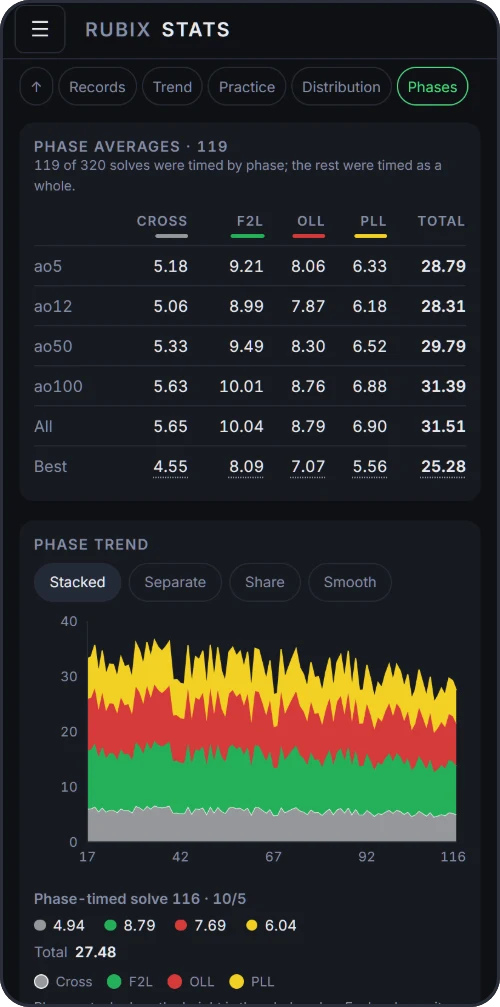
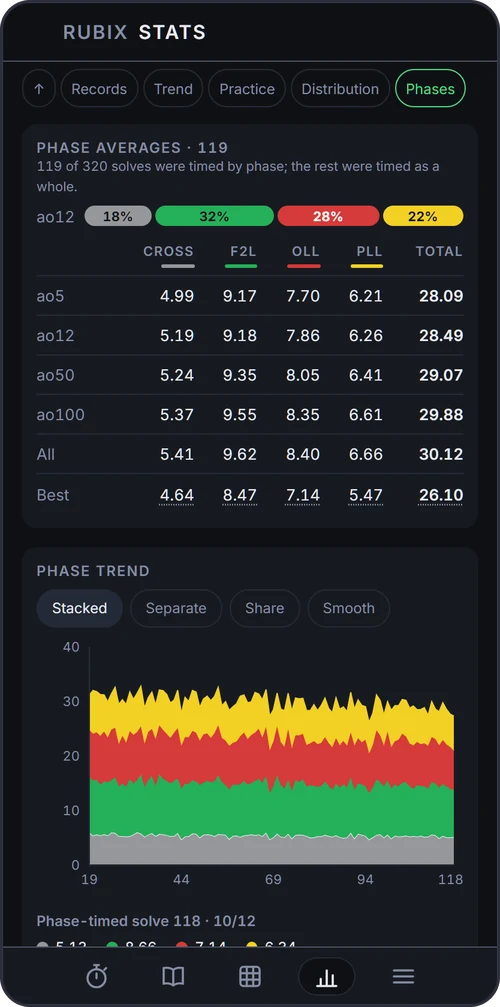
docs(readme): both methods up front, the trainer by method, new screenshots
The opening says what the app is for both CFOP and Roux. The trainer is
described by method and gains what it was missing: the further F2L levels,
marking a case as learning or known, the recognition and cross drills, and
left-handed alternatives. A new section says where the algorithms come from.

The screenshots are retaken on today's build, with the trainer on CMLL
instead of F2L.

diff --git a/README.md b/README.md
@@ -1,6 +1,7 @@
 # Rubix
 
-An offline speedcubing trainer for the 3×3, from a first solve to a fast average.
+An offline speedcubing trainer for the 3×3, from a first solve to a fast average —
+a timer, a beginner's guide and an algorithm trainer for **CFOP** and **Roux**.
 It runs in the browser and installs as an app on a phone or a computer:
 **[rubix.lahvi.cz](https://rubix.lahvi.cz)**
 
@@ -8,8 +9,8 @@ Free, no account, no ads. Once opened, it works without a connection. English an
 
 <p align="center">
   <img src="docs/screenshots/timer.webp" width="200" alt="The timer: a scramble, its 3D preview and the clock">
-  <img src="docs/screenshots/learn.webp" width="200" alt="The beginner's guide, step 1: the cross">
-  <img src="docs/screenshots/trainer.webp" width="200" alt="The F2L trainer: every case with its algorithm">
+  <img src="docs/screenshots/learn.webp" width="200" alt="The beginner's guide, for CFOP or Roux, with the notation open">
+  <img src="docs/screenshots/trainer.webp" width="200" alt="The trainer on Roux: CMLL, every case with its algorithm">
   <img src="docs/screenshots/stats.webp" width="200" alt="Statistics: phase averages and the phase trend">
 </p>
 
@@ -40,16 +41,21 @@ Free, no account, no ads. Once opened, it works without a connection. English an
 - Averages follow the csTimer convention, so the numbers match what you are used to.
 
 ### Algorithm trainer
-- PLL, OLL and F2L, plus 2-Look OLL and PLL for the way most people learn them.
-- Every case drawn as a diagram with arrows for where the pieces go; play the
+- **CFOP:** PLL, OLL and F2L — with two further levels of F2L for a pair that
+  starts in the wrong slot — plus 2-Look OLL and PLL for the way most people
+  learn them.
+- **Roux:** the second block's 65 pairs, CMLL — all 42 cases, with 2-Look CMLL
+  on the way there — the eleven cases of edge orientation, and EOLR, which
+  orients the edges and places the side ones in a single algorithm.
+- Every case drawn as a diagram, with arrows for where the pieces go; play the
   algorithm on a 3D cube move by move.
-- Alternative algorithms for a case, your own algorithms, and named triggers
-  (sexy move, sledgehammer…) highlighted inside them.
-- Roux: the second block's 65 pairs, CMLL — all 42 cases, with one-handed
-  algorithms among the alternatives, and 2-Look CMLL on the way there — the
-  eleven cases of edge orientation, and EOLR, which orients the edges and
-  places the side ones in a single algorithm.
-- Drill a chosen set of cases against the clock and see which ones are your slowest.
+- Alternative algorithms for a case — left-handed ones marked as such — your
+  own algorithms, and named triggers (sexy move, sledgehammer…) highlighted
+  inside them.
+- Mark each case as new, learning or known, and see how far through a set you are.
+- Drill a chosen set of cases against the clock, from a real scramble into the
+  case, and see which ones are your slowest; or drill recognition alone, naming
+  the case you are shown. The cross has a drill of its own.
 
 ### Phase splits
 - Time each phase by tapping as you finish it: cross, F2L, OLL and PLL in CFOP,
@@ -83,6 +89,15 @@ There are no accounts and no backend. Everything you record stays in your browse
 storage and leaves the device only when you export it yourself. The one outside
 request is Cloudflare Web Analytics, which counts page views; it knows nothing
 about your solves and nothing waits for it.
+
+## Where the algorithms come from
+
+Most of the CFOP algorithms are from [J Perm](https://jperm.net/), and the
+beginner method follows [badmephisto](http://badmephisto.com). The Roux sets
+come from the sheets of [Kian Mansour](https://sites.google.com/view/kianroux/)
+and the Roux community; the second-block cases those sheets leave out are from
+[SpeedCubeDB](https://speedcubedb.com/). Every algorithm in the app is checked
+by running it on a model of the cube before it ships.
 
 ## Bugs and ideas
 
